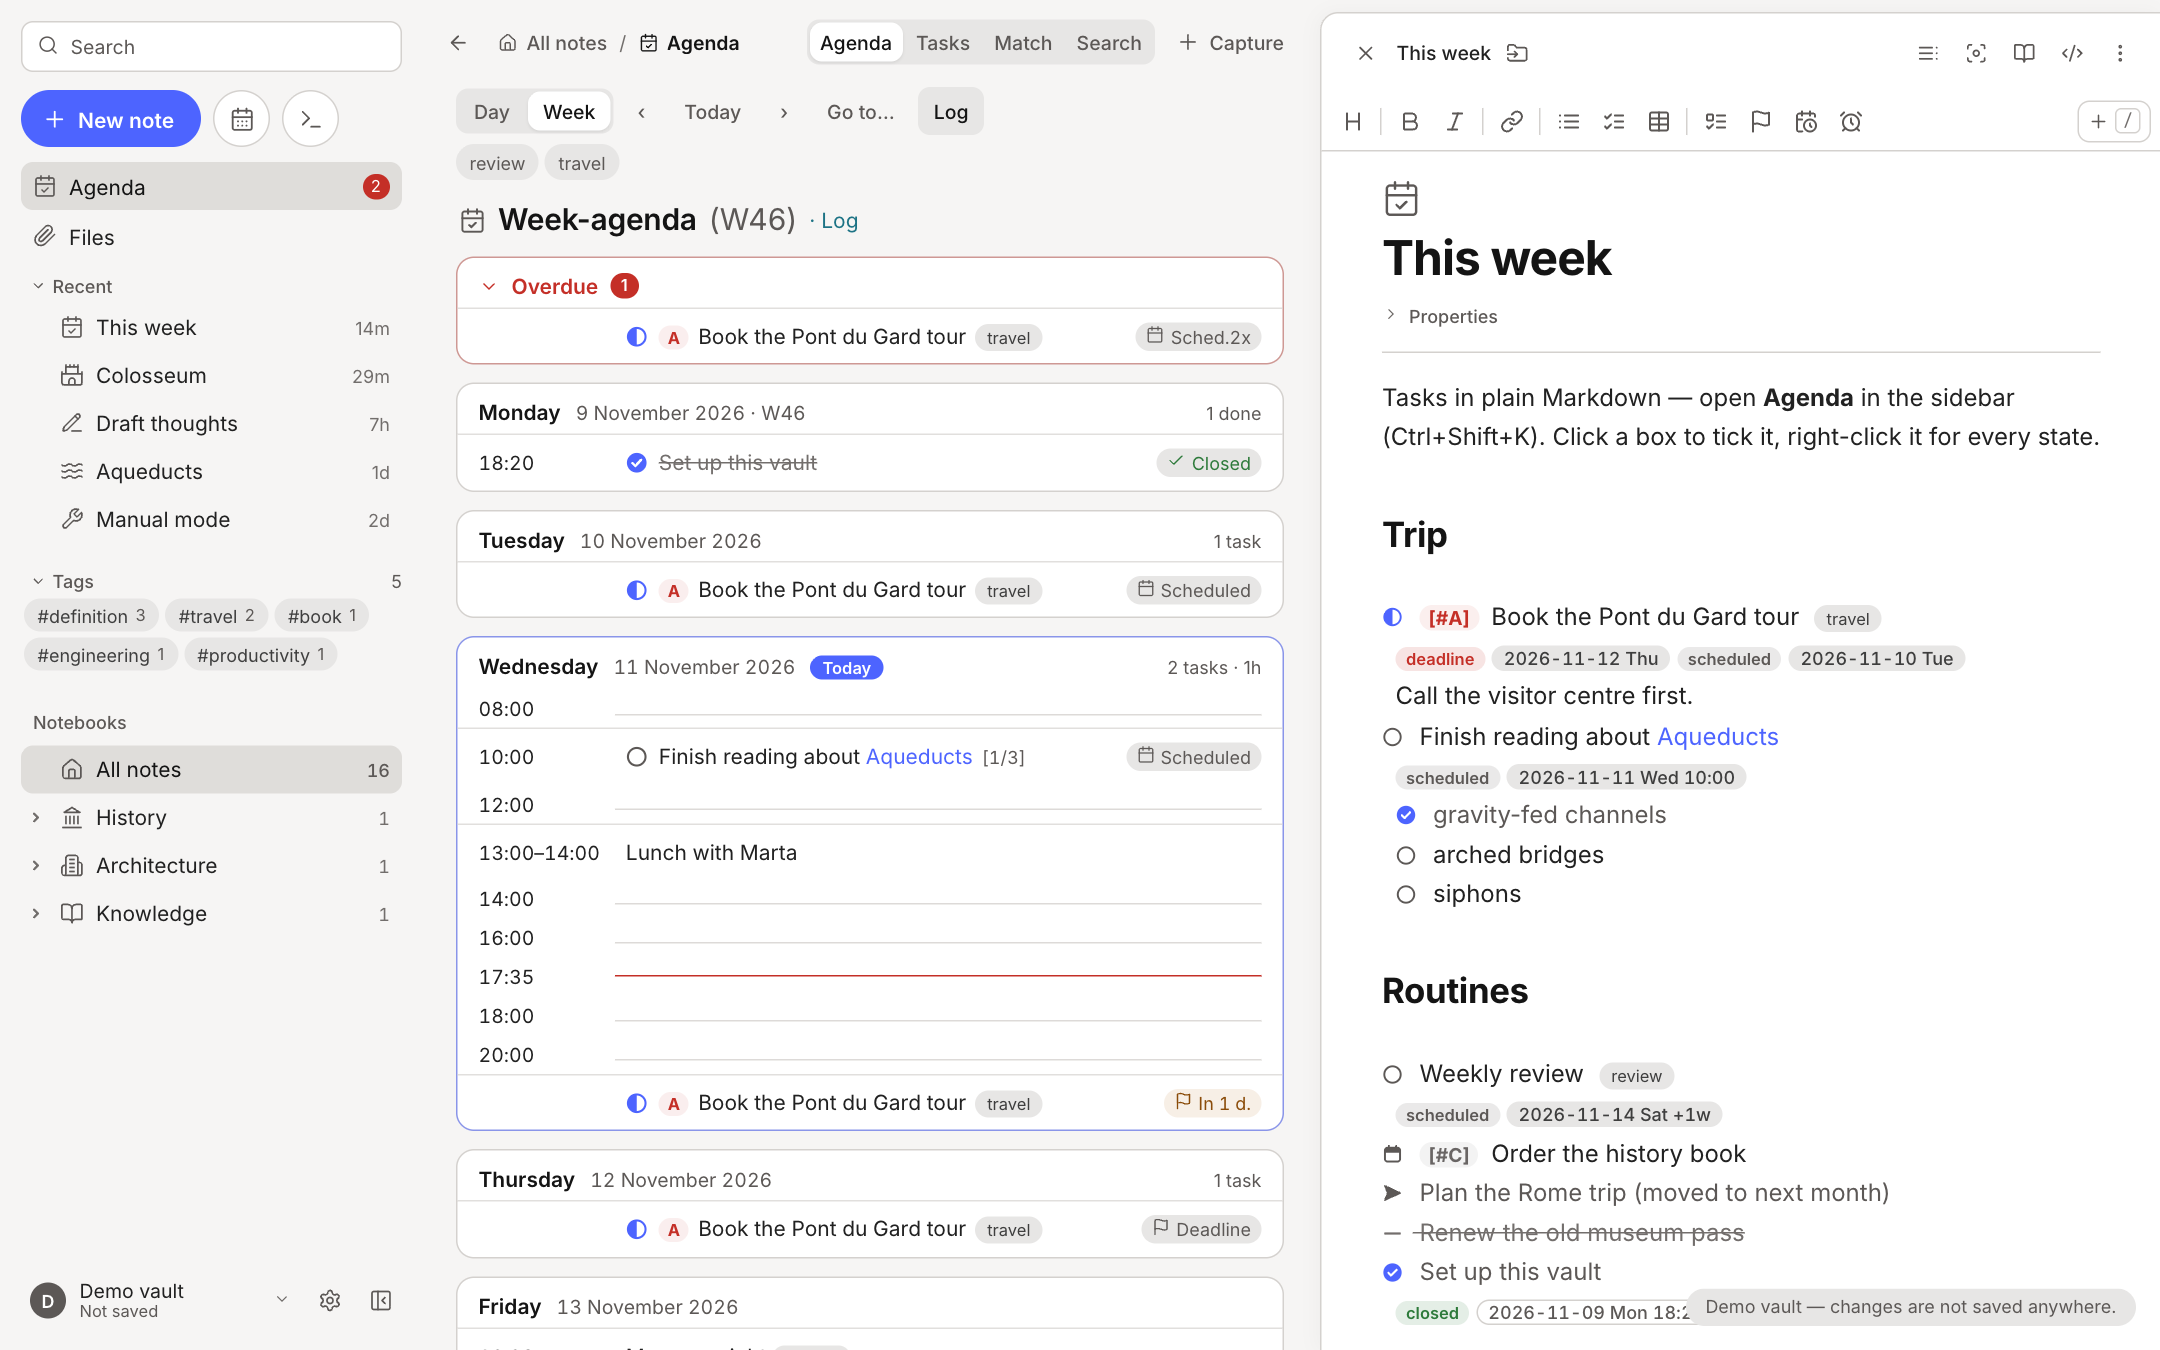
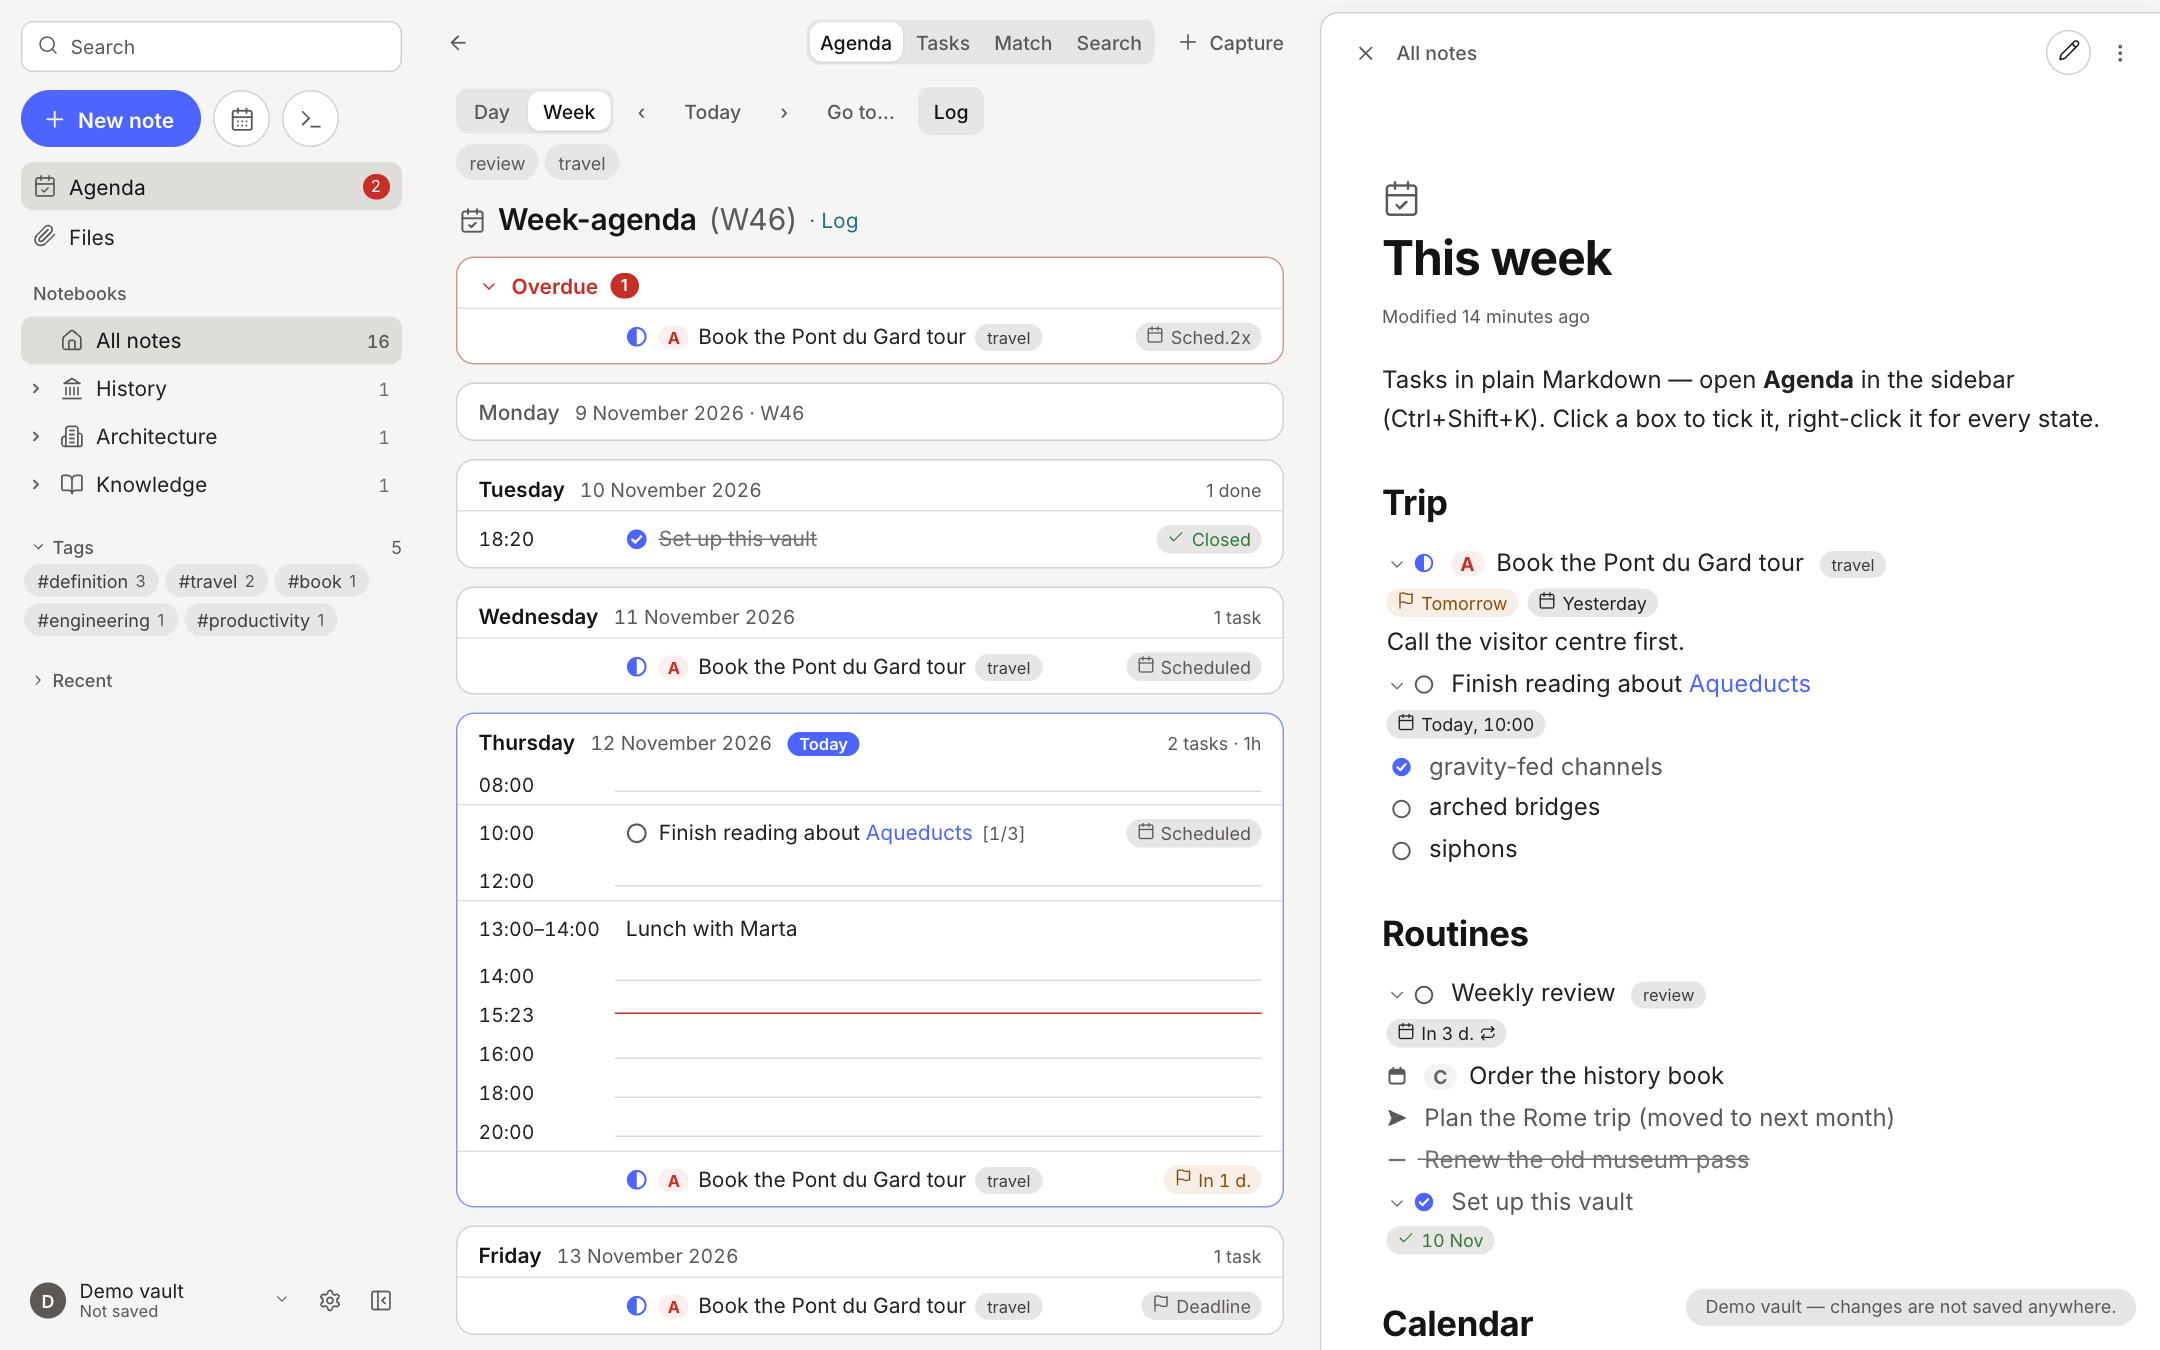
Drop the agenda's and Files' breadcrumbs, retake the screenshots and update the README (reading plan, stage 7)
The agenda and Files lose "All notes / …" above them, as the list of
notes did in 0.30: their titles say where they are. The screenshots are
retaken, with a new one of the same note being edited next to the one
being read, and the README describes the notebooks-first sidebar, the
list's description and count, the reading view and the new header.

diff --git a/web/src/js/ui/agenda.js b/web/src/js/ui/agenda.js
@@ -13,7 +13,7 @@ import { orgAll } from "../services/tasks.js";
 import { $, $$, h, ic, iconBtn, isMod, keyText } from "./dom.js";
 import { echo, Menu, openLayer, promptModal } from "./ui.js";
 import { renderMarkdown, wireRendered } from "./markdown.js";
-import { goBack, leaveTagView, navEntry, renderBoard, setTarget } from "./board.js";
+import { goBack, leaveTagView, navEntry, renderBoard } from "./board.js";
 import { renderTree } from "./tree.js";
 import { setSide, sideToggle } from "./shell.js";
 import { orgCycle, orgEdit, orgPickPriority, orgPickState, orgPlanEntry, orgPri, orgRefocus, orgTagsEntry } from "./org-commands.js";
@@ -114,11 +114,8 @@ export function renderTasksView(root) {
   const bar = h("div", { cls: "sn-topbar" });
   const back = iconBtn("arrow-left", t("back"), () => goBack()); back.disabled = !board.history.length;
   bar.append(h("div", { cls: "sn-nav" }, sideToggle(), back));
-  const crumbs = h("div", { cls: "sn-crumbs" });
-  const home = h("a", { cls: "sn-crumb", href: "#" }, ic("sn-crumb-icon", "home"), h("span", { text: t("allCards") }));
-  home.addEventListener("click", (e) => { e.preventDefault(); setTarget(null); });
-  crumbs.append(home, h("span", { cls: "sn-crumb-sep", text: "/" }), h("span", { cls: "sn-crumb is-current" }, ic("sn-crumb-icon", "calendar-check"), h("span", { text: tt("tasks") })));
-  bar.append(crumbs);
+  // no breadcrumbs, as above the list of notes: the view's title says where it is, ← and the sidebar go back
+  bar.append(h("div", { cls: "sn-crumbs" }));
   const tools = h("div", { cls: "sn-tools" });
   const seg = h("div", { cls: "sn-seg ag-views", role: "tablist" });
   for (const [v, k, key] of [["agenda", "vAgenda", "a"], ["todo", "vTodo", "t"], ["match", "vMatch", "m"], ["search", "vSearch", "s"]]) {

diff --git a/web/src/js/ui/files.js b/web/src/js/ui/files.js
@@ -15,7 +15,7 @@ import { $, $$, h, ic, iconBtn, isMod, keyText } from "./dom.js";
 import { confirmModal, Menu, notice, promptModal } from "./ui.js";
 import { hasPdfViewer, pdfMessage, renderPdfPages } from "./markdown.js";
 import { attachLongPress, formatDate } from "./cards.js";
-import { goBack, leaveTagView, navEntry, renderBoard, setTarget } from "./board.js";
+import { goBack, leaveTagView, navEntry, renderBoard } from "./board.js";
 import { renderTree } from "./tree.js";
 import { openEditor, saveEditor } from "./editor.js";
 import { refresh, setSide, sideToggle, wbBtn } from "./shell.js";
@@ -208,11 +208,8 @@ export function renderFilesView(root) {
   const bar = h("div", { cls: "sn-topbar" });
   const back = iconBtn("arrow-left", t("back"), () => goBack()); back.disabled = !board.history.length;
   bar.append(h("div", { cls: "sn-nav" }, sideToggle(), back));
-  const crumbs = h("div", { cls: "sn-crumbs" });
-  const home = h("a", { cls: "sn-crumb", href: "#" }, ic("sn-crumb-icon", "home"), h("span", { text: t("allCards") }));
-  home.addEventListener("click", (e) => { e.preventDefault(); setTarget(null); });
-  crumbs.append(home, h("span", { cls: "sn-crumb-sep", text: "/" }), h("span", { cls: "sn-crumb is-current" }, ic("sn-crumb-icon", "paperclip"), h("span", { text: fvt("files") })));
-  bar.append(crumbs);
+  // no breadcrumbs, as above the list of notes: the view's title says where it is, ← and the sidebar go back
+  bar.append(h("div", { cls: "sn-crumbs" }));
   bar.append(h("div", { cls: "sn-tools" }, h("button", { cls: "wb-btn", type: "button", title: fvt("upload"), onClick: () => uploadAttachments() }, ic("", "upload"), h("span", { cls: "wb-label", text: fvt("upload") }))));
   root.append(bar);
 

diff --git a/README.md b/README.md
@@ -50,20 +50,23 @@ Supstack shows a folder of Markdown notes (a *vault*) as notebooks with a list o
 
 <table>
   <tr>
-    <td width="50%"><img src="docs/screenshots/board-dark.png" alt="The list of notes in the dark theme"><br><sub><b>Dark theme.</b> The same view, with light and dark themes following the system.</sub></td>
-    <td width="50%"><img src="docs/screenshots/editor.png" alt="The live preview editor with tasks, priorities and dates"><br><sub><b>Live preview editor.</b> Tasks, priorities, deadlines and scheduled dates in plain Markdown.</sub></td>
+    <td width="50%"><img src="docs/screenshots/editor.png" alt="A note being read: tasks with a priority letter and their dates as short chips"><br><sub><b>Reading.</b> A note opens to read: its tasks show a priority letter and their dates as the agenda says them.</sub></td>
+    <td width="50%"><img src="docs/screenshots/editor-editing.png" alt="The same note in the live preview editor, with the toolbar and the dates as written"><br><sub><b>Editing.</b> <i>Edit</i> (or a double click) opens the live preview editor, with the Markdown as written.</sub></td>
   </tr>
   <tr>
-    <td width="50%"><img src="docs/screenshots/agenda.png" alt="The week agenda with scheduled, overdue and closed tasks"><br><sub><b>Agenda.</b> Tasks from the whole vault by day, with overdue items and a time grid.</sub></td>
-    <td width="50%"><img src="docs/screenshots/notes-layout.png" alt="Inside a notebook: its own text, the notebooks in it and its notes"><br><sub><b>Inside a notebook.</b> Its text on top, then the notebooks in it, then its notes; the first note opens beside the list.</sub></td>
+    <td width="50%"><img src="docs/screenshots/board-dark.png" alt="The list of notes in the dark theme"><br><sub><b>Dark theme.</b> The same view, with light and dark themes following the system.</sub></td>
+    <td width="50%"><img src="docs/screenshots/notes-layout.png" alt="Inside a notebook: its description, the notebooks in it and its notes"><br><sub><b>Inside a notebook.</b> Its own text as a description under the title, then the notebooks in it, then its notes.</sub></td>
+  </tr>
+  <tr>
+    <td colspan="2"><img src="docs/screenshots/agenda.png" alt="The week agenda with scheduled, overdue and closed tasks"><br><sub><b>Agenda.</b> Tasks from the whole vault by day, with overdue items and a time grid.</sub></td>
   </tr>
 </table>
 
 <p align="center">
   <img src="docs/screenshots/phone-board.png" alt="Supstack on a phone: the list of notes" width="260">
   &nbsp;&nbsp;
-  <img src="docs/screenshots/phone-editor.png" alt="Supstack on a phone: editing a note" width="260">
-  <br><sub><b>On Android.</b> A single-column layout with a bottom bar, and the editor full screen.</sub>
+  <img src="docs/screenshots/phone-editor.png" alt="Supstack on a phone: a note open over the list, with a back link to its notebook" width="260">
+  <br><sub><b>On Android.</b> A single-column layout with a bottom bar; a note opens full screen with <i>‹ its notebook</i> to go back.</sub>
 </p>
 
 > Screenshots are taken from the built-in demo vault with `npm run screenshots`.
@@ -74,9 +77,9 @@ Supstack shows a folder of Markdown notes (a *vault*) as notebooks with a list o
 
 ### Notebooks and notes
 - **A notebook is a note that holds other notes.** Nothing to set up: a note becomes a notebook as soon as another note lists it in its `parents` frontmatter property, and it can have its own text too. A note can sit in several notebooks at once, say *Personal* and *Documents*.
-- **The sidebar lists the notebooks**, nested, with how many notes each holds. **All notes** is the top level.
-- **The list and the note side by side.** A notebook opens as a list: its own text on top (when it has some), then the notebooks inside it as compact rows, then its notes, each with when it changed, its title, two lines of text, tags and the first image. The first note opens beside the list, as a mail app does: the arrow keys page through the notes, → and ← go into a notebook and back out, the handle between them sizes the list, and ⤢ gives the note the whole width. On phones a tap opens the note over the list.
-- **The note's header** shows the notebooks it sits in, each one a link to its list, with *+N* for its other places and a button to move it.
+- **The sidebar lists the notebooks** first, nested, with how many notes each holds; **All notes** is the top level. The branch down to the notebook you are in stays open, and the notebook of a note opened from elsewhere is marked. Tags follow, and *Recent* (folded) comes last.
+- **The list and the note side by side.** A notebook opens as a list: its title with how many notebooks and notes it holds, its own text as a short description (when it has some), then the notebooks inside it as compact rows, then its notes, each with when it changed, its title, two lines of text, tags and the first image. The first note opens beside the list, as a mail app does: the arrow keys page through the notes, → and ← go into a notebook and back out, the handle between them sizes the list, and ⤢ gives the note the whole width. On phones a tap opens the note over the list.
+- **The note's header** shows the notebooks it sits in, each one a link to its list, with *+N* for its other places, then **Edit** (**Done** while editing) and **⋮**, which holds the outline, focus and source modes, *Move to…* and the rest of the note's actions. On phones it is just *‹ its notebook*, Edit and ⋮.
 - Sorting (manual, by name, recently modified or newest first; notebooks stay on top) and **saved views**, so a list you like is one tap away.
 - **Quick capture:** type into *Start typing a new note…* at the top of a list to create a note in that notebook. You can choose a **template note** for the notes of a notebook.
 - **Select mode:** select several notes to move, add to another notebook or delete them together. **Undo** reverts the last change.
@@ -84,7 +87,8 @@ Supstack shows a folder of Markdown notes (a *vault*) as notebooks with a list o
 ### Editor
 - **Live preview editing:** the note is one editor (CodeMirror 6) that shows its Markdown rendered: headings, bold, italic, highlights, code, links, tags, task boxes, bullets and priorities read as they will look, and their Markdown shows only where the caret is. Callouts and code blocks render as blocks and open into their Markdown when you click or arrow into them; tables stay rendered and are edited a cell at a time. Click a link to follow it (Ctrl/Cmd+click opens the note in the editor), click a task's box to tick it (right-click it for every state), select text for a floating format bar (bold, italic, highlight, code, link, heading, lists, quote). Undo and redo cover every edit. Your files stay plain Markdown.
 - **Foldable callouts and table editing:** `> [!info]+` makes a callout that starts open and `> [!info]-` one that starts folded; click its title to fold or unfold it. Click a table cell to edit it in place; Tab and Shift+Tab go to the next and previous cell, Enter goes to the cell below (Tab or Enter at the end adds a row, Enter on an empty last row leaves the table), Shift+Enter breaks a line in a cell, and Alt+arrows move the row or column. The table's Markdown keeps its columns lined up. Right-click a cell (or use the toolbar's table button) to add, move, delete, align or sort rows and columns; the + buttons under and beside a table add a row or a column.
-- A source mode for the whole file, a reading view, **full-width** and **focus** modes, and a toolbar for formatting, images and files.
+- **Notes open to read.** The reading view puts one line under the title (when the note changed, its tags), shows a task's priority as a letter and its dates as the agenda says them (*Tomorrow*, *In 3 d.*, *12 Nov*; a deadline red when due, amber in its warning days). *Edit*, a double click or `Ctrl+E` switches to editing, where the dates are shown as written and *Properties* sits under the title; the note stays in place as you switch. **Settings › Appearance › Open notes** makes notes open for editing instead.
+- A source mode for the whole file, **full-width** and **focus** modes, and a toolbar for formatting, images and files.
 - `[[` or `Ctrl+L` links to another note; `/` opens the insert menu.
 - Turn a selection into a **new note inside** the one you are in.
 
@@ -118,7 +122,7 @@ Supstack shows a folder of Markdown notes (a *vault*) as notebooks with a list o
 - No top bar: a full-height sidebar holds search, a blue *New note* button, the agenda, Files and Git sync, the notebooks, and the vault and settings at the bottom; it folds away and each view's own bar brings it back. Inter type, the open note on a white sheet on warm grey.
 - Light and dark themes; English and Russian interface.
 - Emacs-flavoured details: a minibuffer with key hints, and most actions have shortcuts. Org-style `C-c` chords work in the editor, for example `C-c C-t` to step a task's state and `C-c C-s` / `C-c C-d` to schedule or set a deadline.
-- On phones the list fills the screen and a note opens over it, the sidebar becomes a drawer, and the Android **Back** button closes the editor, menus and dialogs before leaving the app.
+- On phones the list fills the screen and a note opens over it with *‹ its notebook* to go back, the sidebar becomes a drawer, and the Android **Back** button closes the editor, menus and dialogs before leaving the app.
 - **Settings** has a section per group: Appearance (language, theme, the list's default sort and size), Keyboard shortcuts, Git (in the app) and About, which shows the version and checks for updates.
 
 ### Updates
